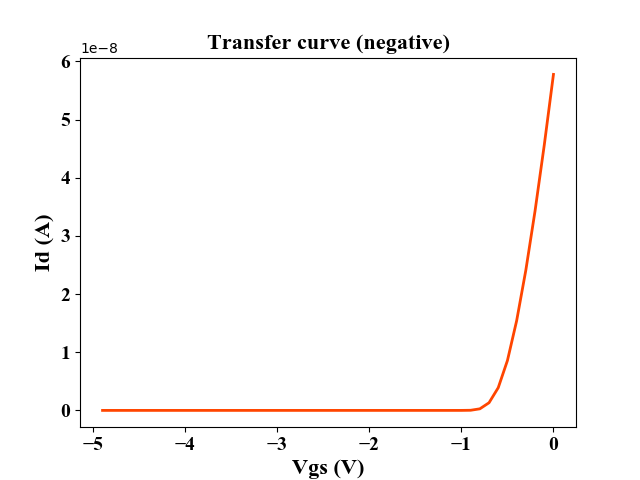
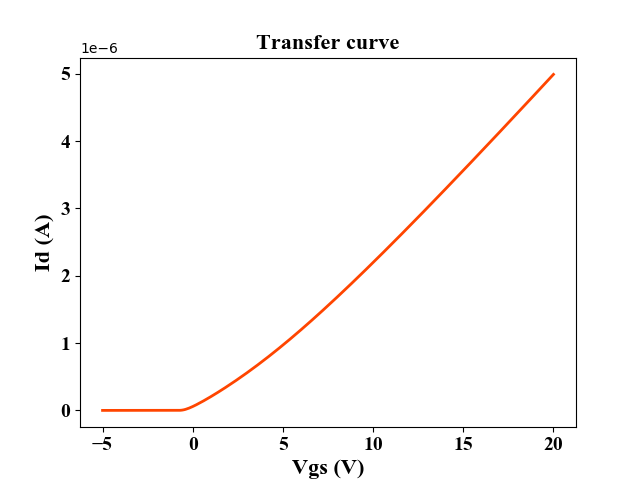
Re-plot Project 1

diff --git a/Plot.py b/Plot.py
@@ -18,15 +18,28 @@ def main():
     df = pd.read_csv(root + '/' + file_1)
     # print(df_1.columns.values.tolist())
     # print(df_1.head())
-    # print(df_1.tail())
+    print(df.tail())
     tmp = np.array(df)
-    Vg = tmp[0 : 50, 0]
-    Id = tmp[0 : 50, 8]
+    Vg = np.arange(152).reshape(152, 1)
+    Vg.dtype = np.float
+    Id = np.arange(152).reshape(152, 1)
+    Id.dtype = np.float
+    Vg[0 : 50, 0] = tmp[50 : 0 : -1, 0]
+    Id[0 : 50, 0] = tmp[50 : 0 : -1, 8]
+    Vg[50, 0] = 0
+    Id[50, 0] = tmp[0, 8]
 
-    plt.plot (Vg, Id, color = 'orangered', linewidth = 2)
+    df = pd.read_csv(root + '/' + file_2)
+    tmp = np.array(df)
+    Vg[51 : 151, 0] = tmp[0 : 100, 0]
+    Id[51 : 151, 0] = tmp[0 : 100, 8]
+
+    print(Vg)
+
+    plt.plot (Vg[0 : 151, 0], Id[0 : 151, 0], color = 'orangered', linewidth = 2)
     ax = plt.gca()
-    ax.yaxis.get_major_formatter().set_powerlimits((0,1))
-    plt.title('Transfer curve (negative)', fontdict={'family':'Times New Roman', 'size':16})
+    ax.yaxis.get_major_formatter().set_powerlimits((0, 1))
+    plt.title('Transfer curve', fontdict={'family':'Times New Roman', 'size':16})
     plt.xlabel('Vgs (V)', fontdict={'family':'Times New Roman', 'size':16})
     plt.ylabel('Id (A)', fontdict={'family':'Times New Roman', 'size': 16})
     plt.yticks(fontproperties = 'Times New Roman', size = 14)
@@ -35,107 +48,26 @@ def main():
     plt.show()
 
 
-    df = pd.read_csv(root + '/' + file_2)
-    tmp = np.array(df)
-    Vg= tmp[0 : 50, 0]
-    Id = tmp[0 : 50, 8]
-
-    plt.plot (Vg, Id, color = 'orangered', linewidth = 2)
-    ax = plt.gca()
-    ax.yaxis.get_major_formatter().set_powerlimits((0,1))
-    plt.title('Transfer curve (Positive)', fontdict={'family':'Times New Roman', 'size':16})
-    plt.xlabel('Vgs (V)', fontdict={'family':'Times New Roman', 'size':16})
-    plt.ylabel('Id (A)', fontdict={'family':'Times New Roman', 'size': 16})
-    plt.yticks(fontproperties = 'Times New Roman', size = 14)
-    plt.xticks(fontproperties = 'Times New Roman', size = 14)
-    plt.savefig('/Users/yifuhhh/TFT_Projects/Prj_1/Plots/Fig2.png')
-    plt.show()
-
-
     df = pd.read_csv(root + '/' + file_3)
     tmp = np.array(df)
     Vd = tmp[0 : 40, 6]
     Id_4 = tmp[0 : 40, 8]
 
-    plt.plot (Vd, Id_4, color = 'orangered', linewidth = 2)
-    ax = plt.gca()
-    ax.yaxis.get_major_formatter().set_powerlimits((0,1))
-    plt.title('Output curve, Vgs = +4V', fontdict={'family':'Times New Roman', 'size':16})
-    plt.xlabel('Vds (V)', fontdict={'family':'Times New Roman', 'size':16})
-    plt.ylabel('Id (A)', fontdict={'family':'Times New Roman', 'size': 16})
-    plt.yticks(fontproperties = 'Times New Roman', size = 14)
-    plt.xticks(fontproperties = 'Times New Roman', size = 14)
-    plt.savefig('/Users/yifuhhh/TFT_Projects/Prj_1/Plots/Fig3.png')
-    plt.show()
-
-
     df = pd.read_csv(root + '/' + file_4)
     tmp = np.array(df)
-    Vd = tmp[0 : 40, 6]
     Id_8 = tmp[0 : 40, 8]
-
-    plt.plot (Vd, Id_8, color = 'orangered', linewidth = 2)
-    ax = plt.gca()
-    ax.yaxis.get_major_formatter().set_powerlimits((0,1))
-    plt.title('Output curve, Vgs = +8V', fontdict={'family':'Times New Roman', 'size':16})
-    plt.xlabel('Vds (V)', fontdict={'family':'Times New Roman', 'size':16})
-    plt.ylabel('Id (A)', fontdict={'family':'Times New Roman', 'size': 16})
-    plt.yticks(fontproperties = 'Times New Roman', size = 14)
-    plt.xticks(fontproperties = 'Times New Roman', size = 14)
-    plt.savefig('/Users/yifuhhh/TFT_Projects/Prj_1/Plots/Fig4.png')
-    plt.show()
-
 
     df = pd.read_csv(root + '/' + file_5)
     tmp = np.array(df)
-    Vd = tmp[0 : 40, 6]
     Id_12 = tmp[0 : 40, 8]
-
-    plt.plot (Vd, Id_12, color = 'orangered', linewidth = 2)
-    ax = plt.gca()
-    ax.yaxis.get_major_formatter().set_powerlimits((0,1))
-    plt.title('Output curve, Vgs = +12V', fontdict={'family':'Times New Roman', 'size':16})
-    plt.xlabel('Vds (V)', fontdict={'family':'Times New Roman', 'size':16})
-    plt.ylabel('Id (A)', fontdict={'family':'Times New Roman', 'size': 16})
-    plt.yticks(fontproperties = 'Times New Roman', size = 14)
-    plt.xticks(fontproperties = 'Times New Roman', size = 14)
-    plt.savefig('/Users/yifuhhh/TFT_Projects/Prj_1/Plots/Fig5.png')
-    plt.show()
-
 
     df = pd.read_csv(root + '/' + file_6)
     tmp = np.array(df)
-    Vd = tmp[0 : 40, 6]
     Id_16 = tmp[0 : 40, 8]
-
-    plt.plot (Vd, Id_16, color = 'orangered', linewidth = 2)
-    ax = plt.gca()
-    ax.yaxis.get_major_formatter().set_powerlimits((0,1))
-    plt.title('Output curve, Vgs = +16V', fontdict={'family':'Times New Roman', 'size':16})
-    plt.xlabel('Vds (V)', fontdict={'family':'Times New Roman', 'size':16})
-    plt.ylabel('Id (A)', fontdict={'family':'Times New Roman', 'size': 16})
-    plt.yticks(fontproperties = 'Times New Roman', size = 14)
-    plt.xticks(fontproperties = 'Times New Roman', size = 14)
-    plt.savefig('/Users/yifuhhh/TFT_Projects/Prj_1/Plots/Fig6.png')
-    plt.show()
-
 
     df = pd.read_csv(root + '/' + file_7)
     tmp = np.array(df)
-    Vd = tmp[0 : 40, 6]
     Id_20 = tmp[0 : 40, 8]
-
-    plt.plot (Vd, Id_20, color = 'orangered', linewidth = 2)
-    ax = plt.gca()
-    ax.yaxis.get_major_formatter().set_powerlimits((0,1))
-    plt.title('Output curve, Vgs = +20V', fontdict={'family':'Times New Roman', 'size':16})
-    plt.xlabel('Vds (V)', fontdict={'family':'Times New Roman', 'size':16})
-    plt.ylabel('Id (A)', fontdict={'family':'Times New Roman', 'size': 16})
-    plt.yticks(fontproperties = 'Times New Roman', size = 14)
-    plt.xticks(fontproperties = 'Times New Roman', size = 14)
-    plt.savefig('/Users/yifuhhh/TFT_Projects/Prj_1/Plots/Fig7.png')
-    plt.show()
-
 
     plt.plot (Vd, Id_4, linewidth = 2, label = "Vgs = +4V")
     plt.plot (Vd, Id_8, linewidth = 2, label = "Vgs = +8V")
@@ -143,14 +75,14 @@ def main():
     plt.plot (Vd, Id_16, linewidth = 2, label = "Vgs = +16V")
     plt.plot (Vd, Id_20, linewidth = 2, label = "Vgs = +20V")
     ax = plt.gca()
-    ax.yaxis.get_major_formatter().set_powerlimits((0,1))
-    plt.title('Output curve comparison', fontdict={'family':'Times New Roman', 'size':16})
+    ax.yaxis.get_major_formatter().set_powerlimits((0, 1))
+    plt.title('Output curve', fontdict={'family':'Times New Roman', 'size':16})
     plt.xlabel('Vds (V)', fontdict={'family':'Times New Roman', 'size':16})
     plt.ylabel('Id (A)', fontdict={'family':'Times New Roman', 'size': 16})
     plt.yticks(fontproperties = 'Times New Roman', size = 14)
     plt.xticks(fontproperties = 'Times New Roman', size = 14)
     plt.legend(loc = 2, prop={'family':'Times New Roman', 'size':12})
-    plt.savefig('/Users/yifuhhh/TFT_Projects/Prj_1/Plots/Fig8.png')
+    plt.savefig('/Users/yifuhhh/TFT_Projects/Prj_1/Plots/Fig2.png')
     plt.show()
 
 
